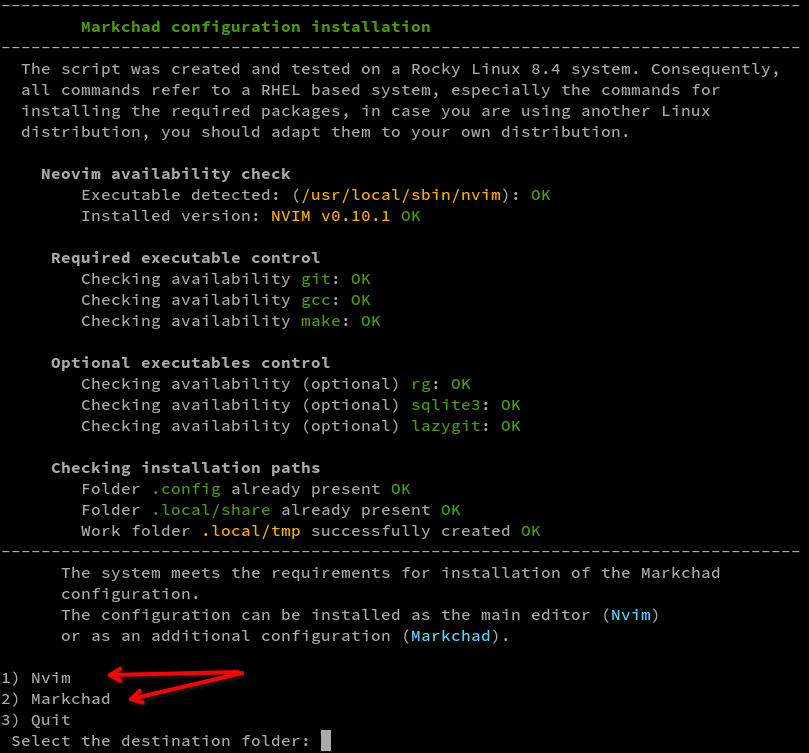
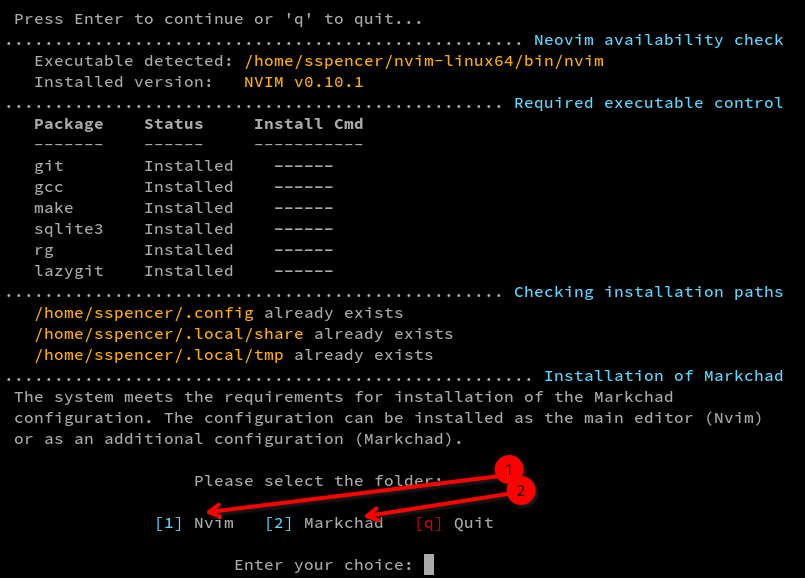
Ready the `README.md` for Markchad live deployment * update the install steps and instructions * update the screenshots

diff --git a/README.md b/README.md
@@ -69,18 +69,26 @@ Made no changes to the themes provided by *NvChad*. This allows you to use it ac
 
 ## Installation
 
-1. Get the script with:
-    `curl -LO https://github.com/ambaradan/markchad/raw/main/scripts/INSTALL.sh`
+1. Get the latest version of the Markchad archive with:
+    `curl -L https://github.com/ambaradan/markchad/releases/latest/download/install_markchad.tar.gz --output install_markchad.tar.gz`
 
-2. Make the script executable:
-    `chmod +x INSTALL.sh`
+2. Extract the archive:
+    `tar xzvf install_markchad.tar.gz`
 
-3. Run the script:
-    `./INSTALL.sh`
+3. Change into the directory called "markchad":
 
-The installation script provides two ways to install Markchad. You can install it as the default ("Nvim"), or if you prefer to keep your markdown editor separate from other work, using "Markchad."
+    `cd markchad`
 
-![markchad_install](/images/markchad_install.png)
+4. Run the script:
+    `./install.sh`
+
+5. The Markchad splash screen appears. If you are ready to continue with the install, follow the on-screen directions:
+
+    ![markchad_splash_screen](images/markchad_splash.png)
+
+6. The installation script provides two ways to install Markchad. You can install it as the default ("Nvim"), or if you prefer to keep your markdown editor separate from other work, using "Markchad."
+
+    ![markchad_install](/images/markchad_install.png)
 
 ## Acknowledgements
 
